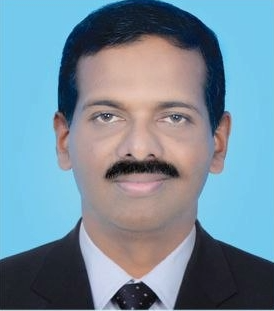
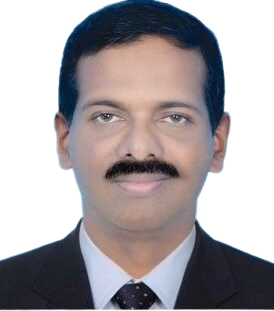
Update member photos: new PNGs for Ayathil Ansar, Pradeep, John Varghese, Mahesh; remove old JPGs

diff --git a/src/components/OfficeBearers.tsx b/src/components/OfficeBearers.tsx
@@ -73,7 +73,7 @@ const districtGroups: Member[][] = [
     {
       name: 'മഹേഷ് പി. എം.',
       role: 'കോഴിക്കോട് ജില്ലാ പ്രസിഡന്റ്',
-      img: '/mahesh_p_m.jpg',
+      img: '/mahesh_p_m.png',
       phone: '9846750700',
     },
   ],